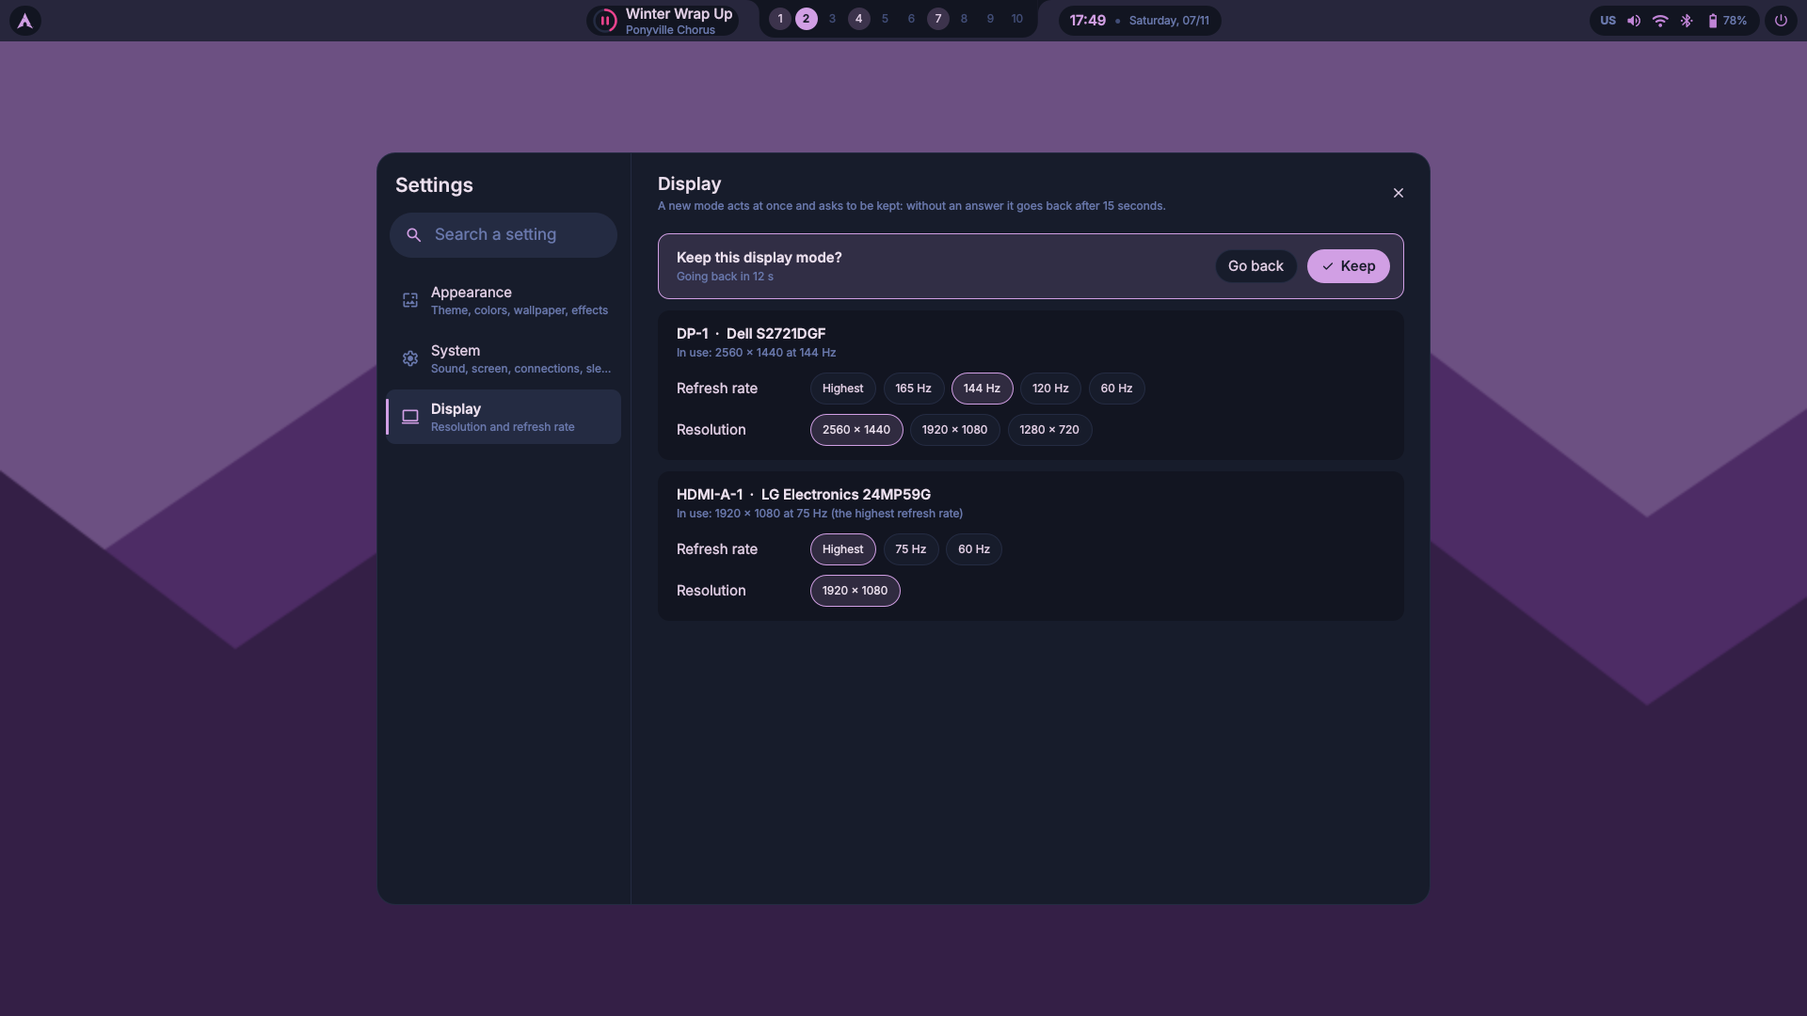
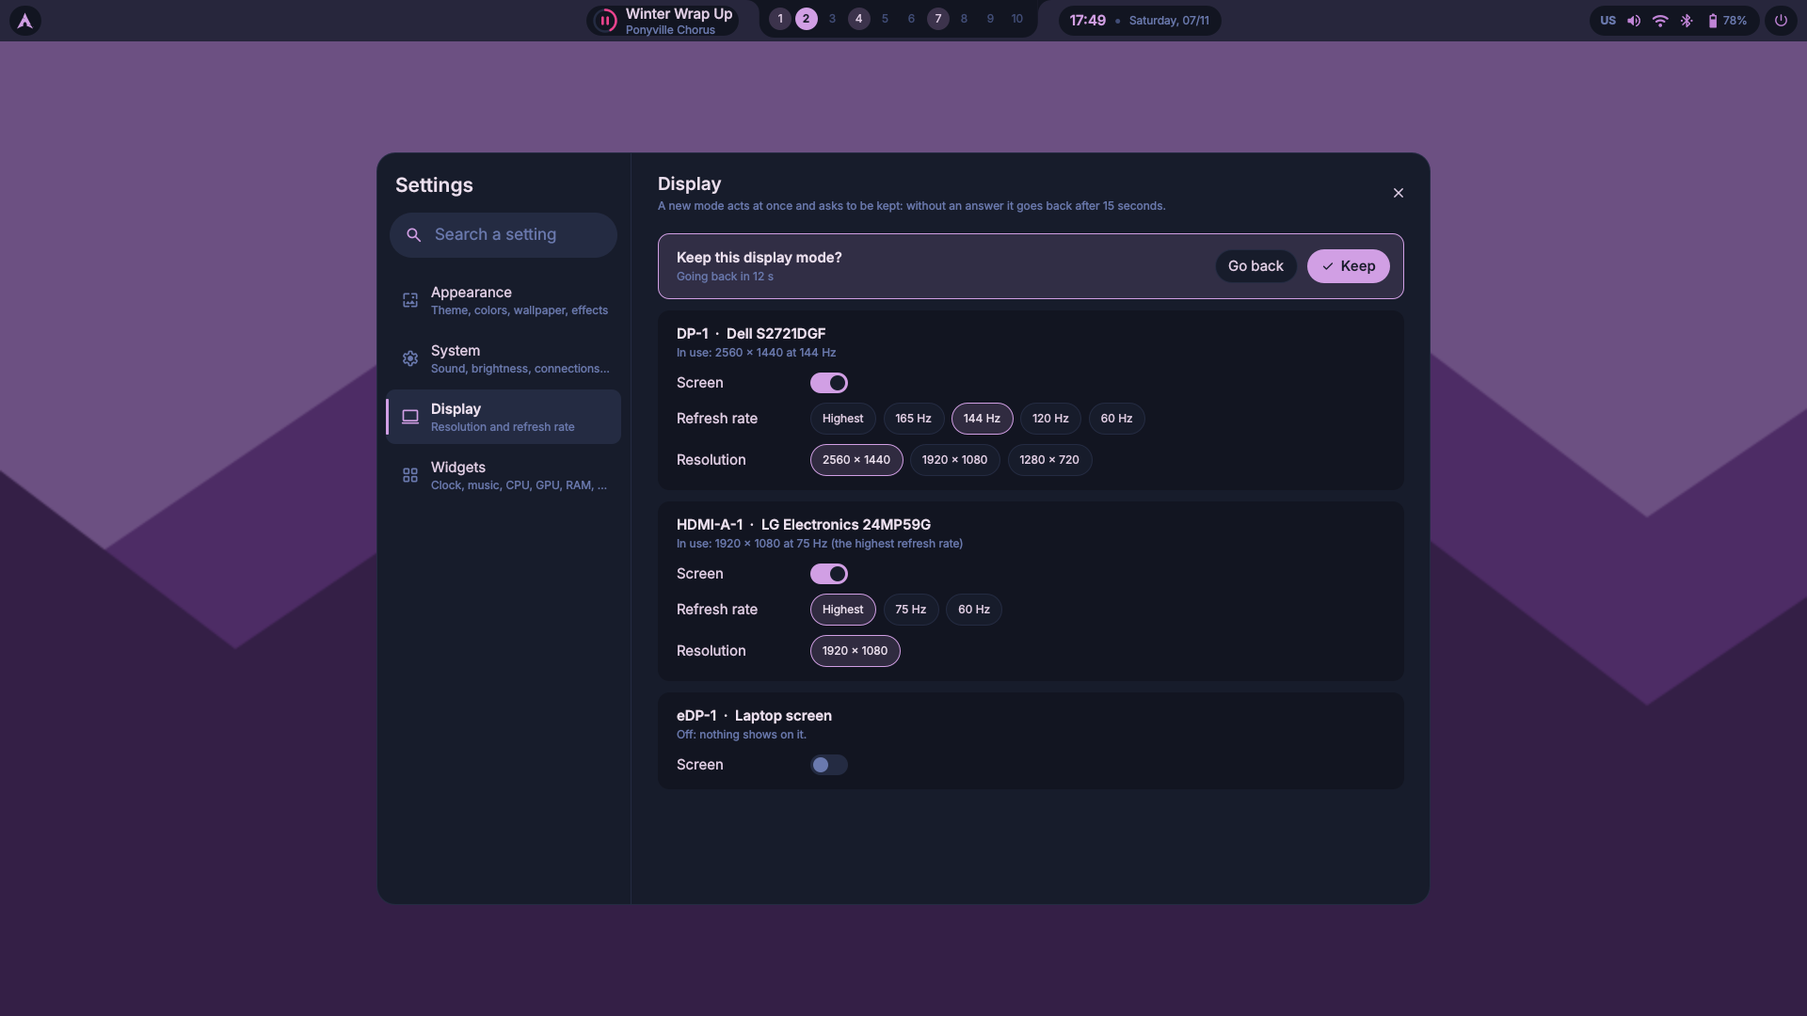
Display: turn a screen off and on
- Settings → Display: a switch per screen; the screens already off are
  listed too (hyprctl monitors all). The last screen on stays on; a change
  is kept or goes back after 15 s, like a new mode.
- tfem display off NAME / on NAME; "off" in display.modes writes
  hl.monitor({ output = NAME, disabled = true }) (Hyprland 0.57.1: config ok).
- A screen turned off elsewhere is turned on with its fastest mode.

Claude-Session: https://claude.ai/code/session_01DQMVUPKUY5DvQErgSP3F1U

diff --git a/quickshell/settings/DisplayPage.qml b/quickshell/settings/DisplayPage.qml
@@ -4,9 +4,10 @@ import "../theme"
 import "../components"
 import "settings.js" as Settings
 
-// Display: the resolution and refresh rate of each screen, in one click.
-// A new mode acts at once and asks to be kept: without an answer it goes
-// back after 15 seconds, in case the screen shows nothing with it.
+// Display: each screen on or off, its resolution and refresh rate, in one
+// click. A change acts at once and asks to be kept: without an answer it
+// goes back after 15 seconds, in case the screen shows nothing with it. The
+// last screen on cannot be turned off.
 Column {
     id: page
 
@@ -37,7 +38,7 @@ Column {
             anchors.verticalCenter: parent.verticalCenter
             spacing: 3
             Label {
-                text: "Keep this display mode?"
+                text: "Keep this change?"
                 color: Theme.fgBright
                 font.weight: Font.DemiBold
             }
@@ -80,12 +81,17 @@ Column {
             required property var modelData
             required property int index
             readonly property string picked: page.chosen[modelData.name] || "auto"
-            readonly property string size: picked === "auto" ? modelData.size : Settings.modeParts(picked).size
+            readonly property bool on: picked === "off" ? false : picked !== "auto" || modelData.on !== false
+            readonly property bool last: on && Settings.screensOn(page.screens, page.chosen) <= 1
+            readonly property string size: picked === "auto" || picked === "off" ? modelData.size
+                : Settings.modeParts(picked).size
 
             objectName: index === 0 ? "screens" : ""
             title: modelData.name + (modelData.description ? "  ·  " + modelData.description : "")
-            description: "In use: " + Settings.modeLabel(modelData.current)
-                + (picked === "auto" ? " (the highest refresh rate)" : "")
+            description: !on ? "Off: nothing shows on it."
+                : modelData.current ? "In use: " + Settings.modeLabel(modelData.current)
+                    + (picked === "auto" ? " (the highest refresh rate)" : "")
+                : "On, with its highest refresh rate."
             wide: true
 
             Column {
@@ -93,6 +99,31 @@ Column {
                 spacing: 10
 
                 Row {
+                    spacing: 12
+                    Label {
+                        anchors.verticalCenter: parent.verticalCenter
+                        width: 130
+                        text: "Screen"
+                    }
+                    Switch {
+                        anchors.verticalCenter: parent.verticalCenter
+                        checked: screen.on
+                        frozen: screen.last
+                        // On again: without the "off" rule; a screen turned off
+                        // elsewhere gets its fastest mode, which turns it on.
+                        onToggled: checked => page.pick(screen.modelData.name, !checked ? "off"
+                            : screen.picked === "off" ? "auto"
+                            : Settings.fastest(screen.modelData, (screen.modelData.resolutions[0] || {}).size))
+                    }
+                    Label {
+                        anchors.verticalCenter: parent.verticalCenter
+                        visible: screen.last
+                        text: "The only screen on: it stays on."
+                        small: true
+                    }
+                }
+                Row {
+                    visible: screen.on
                     spacing: 12
                     Label {
                         anchors.verticalCenter: parent.verticalCenter
@@ -107,6 +138,7 @@ Column {
                     }
                 }
                 Row {
+                    visible: screen.on
                     spacing: 12
                     Label {
                         anchors.verticalCenter: parent.verticalCenter

diff --git a/quickshell/settings/settings.js b/quickshell/settings/settings.js
@@ -27,8 +27,8 @@ const INDEX = [
     { page: "system", id: "quiet", title: "Quiet mode", words: "do not disturb notifications" },
     { page: "system", id: "awake", title: "Stay awake", words: "caffeine idle sleep" },
     { page: "system", id: "sleep", title: "Sleep", words: "idle dim lock screen off suspend energy power" },
-    { page: "display", id: "screens", title: "Refresh rate and resolution",
-      words: "display screen monitor hz hertz fps refresh rate resolution 144 165 240" },
+    { page: "display", id: "screens", title: "Screens: on or off, refresh rate, resolution",
+      words: "display screen monitor hz hertz fps refresh rate resolution 144 165 240 off on disable turn off" },
     { page: "widgets", id: "widget-corner", title: "Widgets corner",
       words: "desktop widgets corner position place left right top bottom" },
     { page: "widgets", id: "widget-clock", title: "Clock widget", words: "desktop time date" },
@@ -46,8 +46,8 @@ const PAGES = [
       note: "Nothing changes until you press Apply: the preview shows it first." },
     { id: "system", title: "System", icon: "settings", text: "Sound, brightness, connections, sleep",
       note: "These settings act at once." },
-    { id: "display", title: "Display", icon: "computer", text: "Resolution and refresh rate",
-      note: "A new mode acts at once and asks to be kept: without an answer it goes back after 15 seconds." },
+    { id: "display", title: "Display", icon: "computer", text: "Screens on or off, resolution, Hz",
+      note: "A change acts at once and asks to be kept: without an answer it goes back after 15 seconds." },
     { id: "widgets", title: "Widgets", icon: "grid_view", text: "Clock, music, CPU, GPU, RAM, disk",
       note: "On the desktop, under the windows, in the colors of the theme. These settings act at once." }
 ];
@@ -172,6 +172,15 @@ function sizeChoices(screen, current, count) {
     if (current && sizes.includes(current) && !shown.includes(current))
         shown.push(current);
     return shown.map(size => ({ value: size, label: size.replace("x", " × ") }));
+}
+
+// How many screens are on, counting what was picked in the window (a mode
+// turns a screen on, "off" turns it off). The last one on stays on.
+function screensOn(screens, chosen) {
+    return (screens || []).filter(screen => {
+        const picked = (chosen || {})[screen.name];
+        return picked === "off" ? false : picked ? true : screen.on !== false;
+    }).length;
 }
 
 // The fastest mode of a resolution (picked when the resolution changes).

diff --git a/quickshell/components/Switch.qml b/quickshell/components/Switch.qml
@@ -7,12 +7,14 @@ Rectangle {
 
     property bool checked: false
     property color tint: Theme.accent
+    property bool frozen: false         // shown, but cannot be flipped
     signal toggled(bool checked)
 
     width: 40
     height: 22
     radius: height / 2
     color: checked ? tint : Theme.surface
+    opacity: frozen ? 0.45 : 1
     Behavior on color { ColorAnimation { duration: Theme.duration } }
 
     Rectangle {
@@ -25,5 +27,8 @@ Rectangle {
         Behavior on x { NumberAnimation { duration: Theme.duration; easing.type: Easing.OutCubic } }
     }
 
-    TapHandler { onTapped: toggle.toggled(!toggle.checked) }
+    TapHandler {
+        enabled: !toggle.frozen
+        onTapped: toggle.toggled(!toggle.checked)
+    }
 }

diff --git a/tools/preview/Scene.qml b/tools/preview/Scene.qml
@@ -325,6 +325,9 @@ Rectangle {
                     size: "1920x1080",
                     resolutions: [{ size: "1920x1080", rates: [{ label: "75 Hz", mode: "1920x1080@75.00" },
                         { label: "60 Hz", mode: "1920x1080@60.00" }] }]
+                }, {
+                    name: "eDP-1", description: "Laptop screen", on: false, current: "", size: "0x0",
+                    resolutions: [{ size: "1920x1200", rates: [{ label: "60 Hz", mode: "1920x1200@60.00" }] }]
                 }]
             })
             confirm: scene.mode === "settings-display" ? { name: "DP-1", previous: "auto", seconds: 12 } : null

diff --git a/scripts/display.py b/scripts/display.py
@@ -4,6 +4,8 @@ and the command line.
 Usage: display.py list               the screens and their modes, as JSON
        display.py set NAME MODE      use MODE on screen NAME (2560x1440@165.00)
        display.py auto NAME          back to the highest refresh rate
+       display.py off NAME           turn screen NAME off (never the last one on)
+       display.py on NAME            turn it on again (highest refresh rate)
 The choice goes to config.json (display.modes), then `tfem generate` writes
 ~/.config/hypr/display.lua and reloads Hyprland, which applies it at once.
 """
@@ -16,7 +18,7 @@ import sys
 from pathlib import Path
 from typing import Mapping
 
-from theming.display import MODE, OUTPUT, chosen, monitors  # noqa: E402  (scripts/ is on sys.path)
+from theming.display import MODE, OFF, OUTPUT, chosen, monitors  # noqa: E402  (scripts/ is on sys.path)
 from theming.generate import main as generate  # noqa: E402
 from theming.paths import Paths  # noqa: E402
 from theming.settings import SettingsError, load_config  # noqa: E402
@@ -26,9 +28,9 @@ ROOT = Path(__file__).resolve().parent.parent
 
 
 def screens(env: Mapping[str, str]) -> list[dict]:
-    """The screens Hyprland drives now ([] when it is not running)."""
+    """Every screen Hyprland knows, the ones off too ([] when it is not running)."""
     try:
-        done = subprocess.run(["hyprctl", "monitors", "-j"], capture_output=True, text=True,
+        done = subprocess.run(["hyprctl", "monitors", "all", "-j"], capture_output=True, text=True,
                               timeout=5, env=dict(env))
         return monitors(json.loads(done.stdout)) if done.returncode == 0 else []
     except (OSError, subprocess.TimeoutExpired, json.JSONDecodeError, TypeError, AttributeError):
@@ -43,7 +45,7 @@ def write_mode(paths: Paths, name: str, mode: str | None) -> None:
     """Sets (or with None removes) the mode of one screen in your config.json."""
     if not OUTPUT.fullmatch(name):
         raise ValueError(f"'{name}' is not a screen name (like DP-1 or HDMI-A-1)")
-    if mode is not None and not MODE.fullmatch(mode):
+    if mode is not None and mode != OFF and not MODE.fullmatch(mode):
         raise ValueError(f"'{mode}' is not a mode (like 2560x1440@165.00)")
     path = paths.user_dir / "config.json"
     config = json.loads(path.read_text()) if path.exists() else {}
@@ -56,6 +58,14 @@ def write_mode(paths: Paths, name: str, mode: str | None) -> None:
     load_config(paths)  # the file stays valid
 
 
+def keep_one_on(name: str, paths: Paths, env: Mapping[str, str]) -> None:
+    """Refuses to turn off the last screen on: nothing would show any more."""
+    picked = chosen(load_config(paths))
+    others = [s for s in screens(env) if s["name"] != name and s["on"] and picked.get(s["name"]) != OFF]
+    if not others:
+        raise ValueError(f"{name} is the only screen on: it stays on")
+
+
 def main(argv: list[str] | None = None, env: Mapping[str, str] = os.environ) -> int:
     args = list(sys.argv[1:] if argv is None else argv)
     paths = Paths.from_env(ROOT, env)
@@ -63,15 +73,18 @@ def main(argv: list[str] | None = None, env: Mapping[str, str] = os.environ) -> 
         if args == ["list"]:
             print(json.dumps(listing(paths, env)))
             return 0
-        if (args[:1] == ["set"] and len(args) == 3) or (args[:1] == ["auto"] and len(args) == 2):
-            name, mode = args[1], (args[2] if args[0] == "set" else None)
+        if (args[:1] == ["set"] and len(args) == 3) or (args[:1] in (["auto"], ["off"], ["on"]) and len(args) == 2):
+            name = args[1]
+            mode = {"set": args[-1], "off": OFF}.get(args[0])     # auto and on: no rule
+            if mode == OFF:
+                keep_one_on(name, paths, env)
             write_mode(paths, name, mode)
             print(f"{name}: {mode or 'highest refresh rate'}")
             return generate(["--root", str(ROOT), "--only", "hyprland-display"], env=env)
     except (OSError, ValueError, SettingsError) as error:
         print(f"error: {error}", file=sys.stderr)
         return 1
-    print("\n".join(__doc__.strip().splitlines()[3:6]), file=sys.stderr)
+    print("\n".join(__doc__.strip().splitlines()[3:8]), file=sys.stderr)
     return 64
 
 

diff --git a/tests/test_display.py b/tests/test_display.py
@@ -42,6 +42,17 @@ class ModesTest(unittest.TestCase):
         ])
         self.assertEqual([r["label"] for r in screen["resolutions"][1]["rates"]], ["144 Hz", "60 Hz"])
 
+    def test_a_screen_turned_off_is_listed_as_off(self):
+        off = {"name": "HDMI-A-1", "description": "LG", "width": 0, "height": 0, "refreshRate": 0,
+               "disabled": True, "availableModes": ["1920x1080@60.00Hz"]}
+        screens = monitors(HYPRCTL + [off])
+        self.assertEqual([(s["name"], s["on"]) for s in screens], [("DP-1", True), ("HDMI-A-1", False)])
+        self.assertEqual(screens[1]["current"], "")
+        self.assertEqual(screens[1]["resolutions"][0]["size"], "1920x1080")   # its modes, to turn it on
+
+    def test_a_screen_off_gets_a_disabled_rule(self):
+        self.assertEqual(lua_rules({"HDMI-A-1": "off"}), 'hl.monitor({ output = "HDMI-A-1", disabled = true })')
+
     def test_rules_name_each_screen_and_keep_the_others_automatic(self):
         self.assertIn("No mode picked", lua_rules({}))
         self.assertEqual(lua_rules({"DP-1": "2560x1440@165.08"}),
@@ -52,6 +63,8 @@ class ConfigTest(SandboxTest):
     def test_display_modes_are_checked(self):
         self.write_user_file("config.json", json.dumps({"display": {"modes": {"DP-1": "2560x1440@165.08"}}}))
         self.assertEqual(load_config(self.paths)["display.modes.DP-1"], "2560x1440@165.08")
+        self.write_user_file("config.json", json.dumps({"display": {"modes": {"DP-1": "off"}}}))
+        self.assertEqual(load_config(self.paths)["display.modes.DP-1"], "off")
         for modes, problem in (({"DP-1": "fast"}, "screen mode"), ({"DP 1": "1920x1080@60"}, "unknown key")):
             with self.subTest(modes=modes):
                 self.write_user_file("config.json", json.dumps({"display": {"modes": modes}}))
@@ -96,6 +109,23 @@ class CommandTest(SandboxTest):
         code, _ = self.run_display("auto", "DP-1")
         self.assertEqual(code, 0)
         self.assertNotIn("DP-1", (self.paths.config_home / "hypr/display.lua").read_text())
+
+    def test_off_and_on_turn_a_screen_off_and_back(self):
+        second = {"name": "HDMI-A-1", "description": "LG", "width": 1920, "height": 1080, "refreshRate": 60.0,
+                  "availableModes": ["1920x1080@60.00Hz"]}
+        (self.home / "monitors.json").write_text(json.dumps(HYPRCTL + [second]))
+        code, output = self.run_display("off", "HDMI-A-1")
+        self.assertEqual(code, 0, output)
+        self.assertIn('output = "HDMI-A-1", disabled = true', (self.paths.config_home / "hypr/display.lua").read_text())
+        code, _ = self.run_display("on", "HDMI-A-1")
+        self.assertEqual(code, 0)
+        self.assertNotIn("HDMI-A-1", (self.paths.config_home / "hypr/display.lua").read_text())
+
+    def test_the_last_screen_on_stays_on(self):
+        code, output = self.run_display("off", "DP-1")      # the only one
+        self.assertEqual(code, 1)
+        self.assertIn("the only screen on", output)
+        self.assertFalse((self.paths.user_dir / "config.json").exists())
 
     def test_bad_names_and_modes_are_refused(self):
         self.assertEqual(self.run_display("set", "DP-1", "fast")[0], 1)

diff --git a/scripts/theming/display.py b/scripts/theming/display.py
@@ -3,6 +3,7 @@ window, and the Hyprland rules for the modes picked there.
 
 A mode is "WIDTHxHEIGHT@RATE" (2560x1440@165.00), as `hl.monitor` takes it;
 the rate keeps the decimals Hyprland lists, so it matches the exact mode.
+"off" turns the screen off (`disabled = true`).
 """
 from __future__ import annotations
 
@@ -14,6 +15,7 @@ MODE = re.compile(r"(\d{2,5})x(\d{2,5})@(\d{1,3}(?:\.\d{1,3})?)")
 # Port names: DP-1, eDP-1, HDMI-A-1...
 OUTPUT = re.compile(r"[A-Za-z0-9][A-Za-z0-9_-]{0,31}")
 PREFIX = "display.modes."   # config.json: {"display": {"modes": {"DP-1": "..."}}}
+OFF = "off"
 
 
 def mode(width: int, height: int, rate: float) -> str:
@@ -21,8 +23,9 @@ def mode(width: int, height: int, rate: float) -> str:
 
 
 def monitors(data: list[Mapping]) -> list[dict]:
-    """Each screen with its resolutions, biggest first, and their rates,
-    highest first ("165 Hz"); rates that round to the same Hz are one."""
+    """Each screen (from `hyprctl monitors all -j`, so the ones turned off too)
+    with its resolutions, biggest first, and their rates, highest first
+    ("165 Hz"); rates that round to the same Hz are one."""
     screens = []
     for screen in data:
         sizes: dict[tuple[int, int], dict[int, float]] = {}
@@ -32,11 +35,13 @@ def monitors(data: list[Mapping]) -> list[dict]:
             width, height, rate = int(match[1]), int(match[2]), float(match[3])
             rates = sizes.setdefault((width, height), {})
             rates[round(rate)] = max(rate, rates.get(round(rate), 0))
+        on = not screen.get("disabled", False)
         width, height = int(screen.get("width", 0)), int(screen.get("height", 0))
-        current = mode(width, height, float(screen.get("refreshRate", 0)))
+        current = mode(width, height, float(screen.get("refreshRate", 0))) if on else ""
         screens.append({
             "name": screen.get("name", ""),
             "description": screen.get("description", ""),
+            "on": on,
             "current": current,
             "size": f"{width}x{height}",
             "resolutions": [
@@ -60,6 +65,7 @@ def lua_rules(modes: Mapping[str, str]) -> str:
     if not modes:
         return "-- No mode picked: every screen uses its highest refresh rate."
     return "\n".join(
+        f"hl.monitor({{ output = {json.dumps(name)}, disabled = true }})" if value == OFF else
         f"hl.monitor({{ output = {json.dumps(name)}, mode = {json.dumps(value)}, "
         f'position = "auto", scale = 1 }})'
         for name, value in sorted(modes.items())

diff --git a/tests/test_qml.py b/tests/test_qml.py
@@ -311,6 +311,11 @@ class VisualComponentsTest(unittest.TestCase):
         self.assertEqual([c["label"] for c in self.probe(lib, 'Lib.sizeChoices(input, "1920x1080", 1)', screen)],
                          ["2560 × 1440", "1920 × 1080"])
         self.assertEqual(self.probe(lib, 'Lib.fastest(input, "2560x1440")', screen), "2560x1440@165.08")
+        # Screens on: off in Hyprland, or turned off in the window, do not count.
+        screens = [{"name": "DP-1", "on": True}, {"name": "HDMI-A-1", "on": True}, {"name": "eDP-1", "on": False}]
+        self.assertEqual(self.probe(lib, 'Lib.screensOn(input, {})', screens), 2)
+        self.assertEqual(self.probe(lib, 'Lib.screensOn(input, {"HDMI-A-1": "off"})', screens), 1)
+        self.assertEqual(self.probe(lib, 'Lib.screensOn(input, {"eDP-1": "2560x1440@60.00"})', screens), 3)
         self.assertEqual(self.probe(lib, 'Lib.PAGES.map(p => p.id)', None),
                          ["appearance", "system", "display", "widgets"])
 

diff --git a/scripts/theming/schema.py b/scripts/theming/schema.py
@@ -11,7 +11,7 @@ from dataclasses import dataclass
 from typing import Mapping
 
 from .colors import Color
-from .display import MODE, OUTPUT
+from .display import MODE, OFF, OUTPUT
 from .icons import FOLDER_COLORS
 
 HUES = ("red", "orange", "yellow", "green", "cyan", "blue", "purple", "brown")
@@ -48,8 +48,8 @@ class Field:
             return "must not be empty"
         if self.kind == "name" and not _NAME.fullmatch(value):
             return "use lowercase letters, digits, '-' or '_' only"
-        if self.kind == "mode" and not MODE.fullmatch(value):
-            return "expected a screen mode like 2560x1440@165.00"
+        if self.kind == "mode" and value != OFF and not MODE.fullmatch(value):
+            return "expected a screen mode like 2560x1440@165.00, or off"
         if self.kind == "color":
             try:
                 Color.parse(value)

diff --git a/README.md b/README.md
@@ -448,12 +448,14 @@ folder name is `shell.name` in your `config.json`). Its colors follow
     microphone, brightness, Wi-Fi and Bluetooth (with their panel), keyboard
     layout, quiet mode, stay awake, and **sleep**: after how long the
     screen dims, locks, turns off and the computer suspends (or never).
-  - **Display**: each screen with its **refresh rate** and resolution as
-    one-click choices (165 Hz, 144 Hz, 60 Hz… or Highest). It acts at once
-    and asks "Keep this display mode?": without an answer it goes back
-    after 15 seconds, in case the screen stays black. Same from a terminal:
+  - **Display**: each screen **on or off** with a switch, its **refresh
+    rate** and resolution as one-click choices (165 Hz, 144 Hz, 60 Hz… or
+    Highest). It acts at once and asks "Keep this change?": without an
+    answer it goes back after 15 seconds, in case a screen stays black. The
+    last screen on cannot be turned off. Same from a terminal:
     `tfem display list`, `tfem display set DP-1 2560x1440@165.08`,
-    `tfem display auto DP-1`. The choice is saved in `config.json`
+    `tfem display auto DP-1`, `tfem display off HDMI-A-1`,
+    `tfem display on HDMI-A-1`. The choice is saved in `config.json`
     (`display.modes`) and written to `~/.config/hypr/display.lua`, loaded
     by `config/monitors.lua`; other screens keep the highest refresh rate.
 

diff --git a/CHANGELOG.md b/CHANGELOG.md
@@ -58,6 +58,12 @@ All notable changes to this project are documented here. The format follows
 
 ### Added
 
+- Screens can be turned **off** (and on again) in Settings → Display, with
+  a switch per screen, and with `tfem display off NAME` / `on NAME`. The
+  page lists the screens already off too (`hyprctl monitors all`); the
+  last screen on stays on; a change can be kept or goes back after 15 s.
+  Written as `hl.monitor({ output = ..., disabled = true })` (checked with
+  `Hyprland --verify-config` 0.57.1).
 - **Lock screen** of the shell, in the stacked clock style of the login
   screen: wallpaper, date, hours over minutes in the accent color, and a
   card with the password as soon as you type (a wrong password shakes it).
